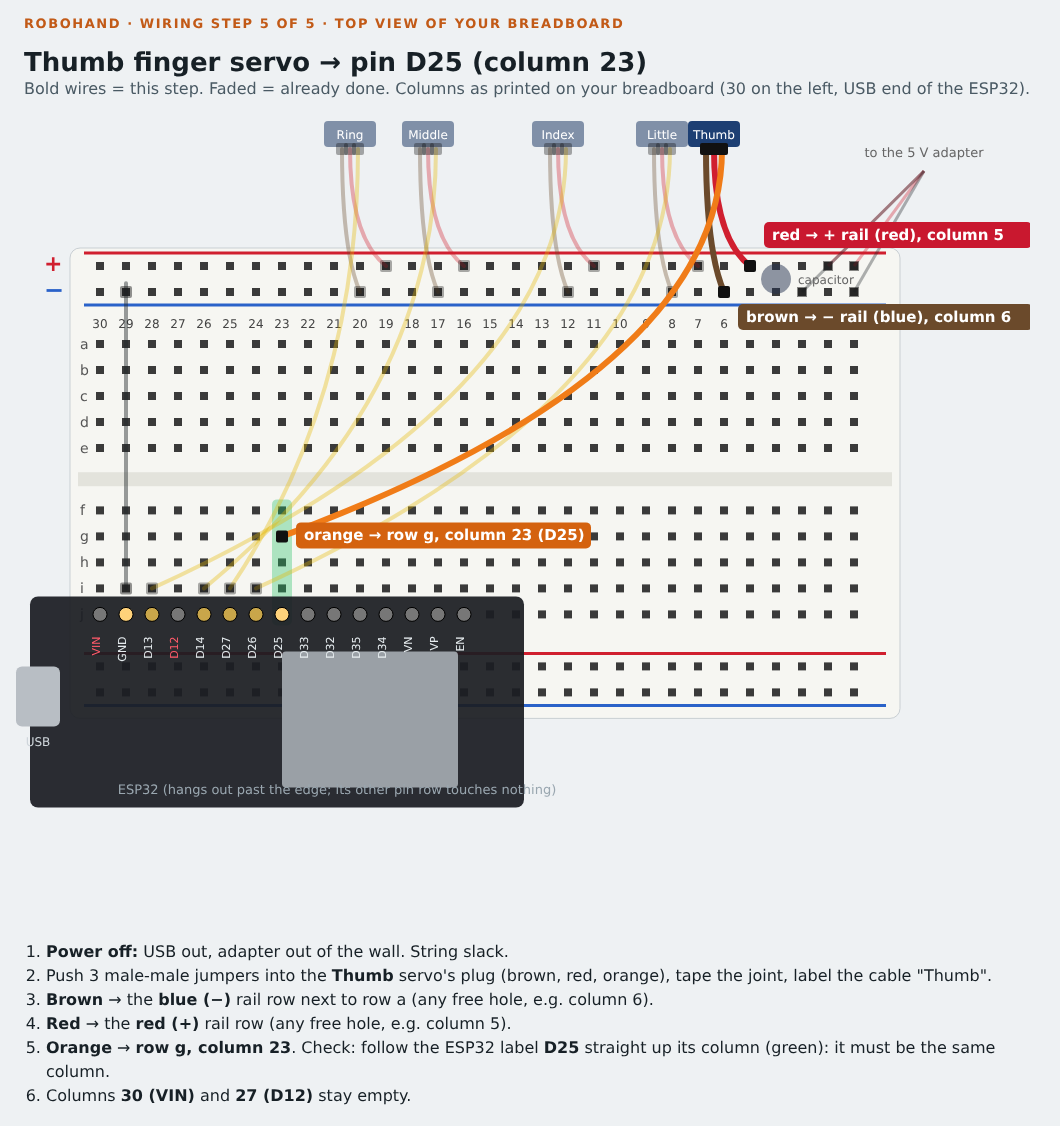
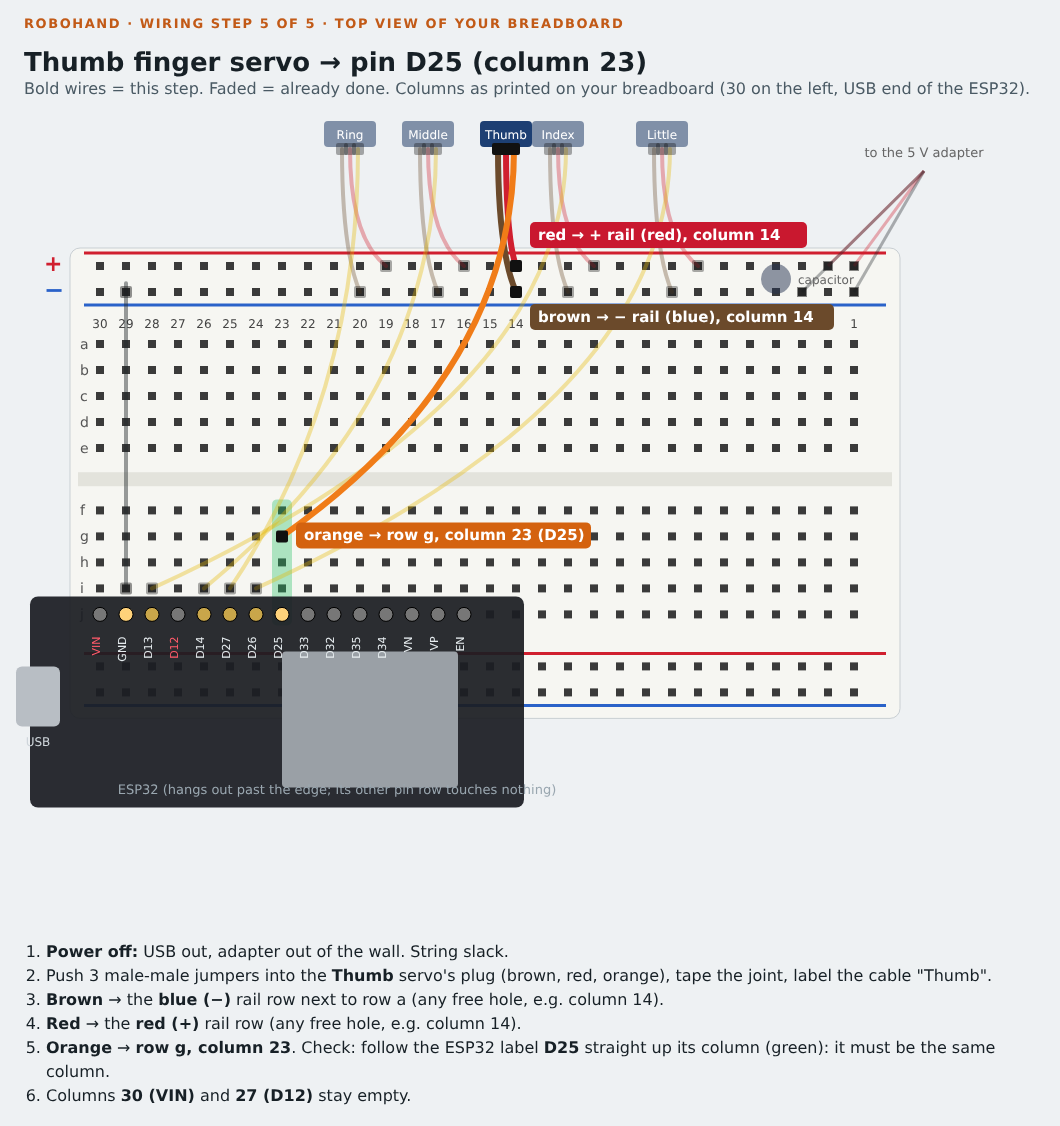
Thumb wiring picture: rail holes moved to column 14 (free on the real board)
Claude-Session: https://claude.ai/code/session_016UHVJgW2w5zeEXY4wxHoiJ

diff --git a/docs/wiring_steps/step_thumb.html b/docs/wiring_steps/step_thumb.html
@@ -565,24 +565,24 @@ ol{font-size:16px;line-height:1.5;margin:8px 24px 18px 24px;padding-left:22px} .
 <path d="M670,51 Q670,300.7 256,490.4" fill="none" stroke="#e5b800" stroke-width="4" stroke-linecap="round"  opacity="0.35"/>
 <rect x="664" y="45" width="12" height="12" rx="2" fill="#111" opacity="0.35"/>
 <rect x="250" y="484.4" width="12" height="12" rx="2" fill="#111" opacity="0.35"/>
-<rect x="688" y="23" width="52" height="26" rx="4" fill="#1d3f73"/>
-<text x="714" y="41" font-size="12" fill="#fff" text-anchor="middle">Thumb</text>
-<path d="M706,51 Q706,152.5 724,194" fill="none" stroke="#6b4a2b" stroke-width="6" stroke-linecap="round"  opacity="1.0"/>
-<rect x="700" y="45" width="12" height="12" rx="2" fill="#111" opacity="1.0"/>
-<rect x="718" y="188" width="12" height="12" rx="2" fill="#111" opacity="1.0"/>
-<path d="M714,51 Q714,139.5 750,168" fill="none" stroke="#d01f2f" stroke-width="6" stroke-linecap="round"  opacity="1.0"/>
-<rect x="708" y="45" width="12" height="12" rx="2" fill="#111" opacity="1.0"/>
-<rect x="744" y="162" width="12" height="12" rx="2" fill="#111" opacity="1.0"/>
-<path d="M722,51 Q722,274.7 282,438.4" fill="none" stroke="#f07c18" stroke-width="6" stroke-linecap="round"  opacity="1.0"/>
-<rect x="716" y="45" width="12" height="12" rx="2" fill="#111" opacity="1.0"/>
+<rect x="480" y="23" width="52" height="26" rx="4" fill="#1d3f73"/>
+<text x="506" y="41" font-size="12" fill="#fff" text-anchor="middle">Thumb</text>
+<path d="M498,51 Q498,152.5 516,194" fill="none" stroke="#6b4a2b" stroke-width="6" stroke-linecap="round"  opacity="1.0"/>
+<rect x="492" y="45" width="12" height="12" rx="2" fill="#111" opacity="1.0"/>
+<rect x="510" y="188" width="12" height="12" rx="2" fill="#111" opacity="1.0"/>
+<path d="M506,51 Q506,139.5 516,168" fill="none" stroke="#d01f2f" stroke-width="6" stroke-linecap="round"  opacity="1.0"/>
+<rect x="500" y="45" width="12" height="12" rx="2" fill="#111" opacity="1.0"/>
+<rect x="510" y="162" width="12" height="12" rx="2" fill="#111" opacity="1.0"/>
+<path d="M514,51 Q514,274.7 282,438.4" fill="none" stroke="#f07c18" stroke-width="6" stroke-linecap="round"  opacity="1.0"/>
+<rect x="508" y="45" width="12" height="12" rx="2" fill="#111" opacity="1.0"/>
 <rect x="276" y="432.4" width="12" height="12" rx="2" fill="#111" opacity="1.0"/>
 <rect x="296" y="424.4" width="295" height="26" rx="5" fill="#d4620f"/><text x="304" y="442.4" font-size="15" font-weight="bold" fill="#fff">orange → row g, column 23 (D25)</text>
-<rect x="738" y="206" width="295" height="26" rx="5" fill="#6b4a2b"/><text x="746" y="224" font-size="15" font-weight="bold" fill="#fff">brown → − rail (blue), column 6</text>
-<rect x="764" y="124" width="268" height="26" rx="5" fill="#c9182f"/><text x="772" y="142" font-size="15" font-weight="bold" fill="#fff">red → + rail (red), column 5</text>
+<rect x="530" y="206" width="304" height="26" rx="5" fill="#6b4a2b"/><text x="538" y="224" font-size="15" font-weight="bold" fill="#fff">brown → − rail (blue), column 14</text>
+<rect x="530" y="124" width="277" height="26" rx="5" fill="#c9182f"/><text x="538" y="142" font-size="15" font-weight="bold" fill="#fff">red → + rail (red), column 14</text>
 </svg><ol>
 <li><b>Power off:</b> USB out, adapter out of the wall. String slack.</li>
 <li>Push 3 male-male jumpers into the <b>Thumb</b> servo's plug (brown, red, orange), tape the joint, label the cable "Thumb".</li>
-<li><b>Brown</b> → the <b>blue (−)</b> rail row next to row a (any free hole, e.g. column 6).</li>
-<li><b>Red</b> → the <b>red (+)</b> rail row (any free hole, e.g. column 5).</li>
+<li><b>Brown</b> → the <b>blue (−)</b> rail row next to row a (any free hole, e.g. column 14).</li>
+<li><b>Red</b> → the <b>red (+)</b> rail row (any free hole, e.g. column 14).</li>
 <li><b>Orange</b> → <b>row g, column 23</b>. Check: follow the ESP32 label <b>D25</b> straight up its column (green): it must be the same column.</li>
 <li>Columns <b>30 (VIN)</b> and <b>27 (D12)</b> stay empty.</li></ol></body></html>

diff --git a/docs/wiring_steps/make_steps.py b/docs/wiring_steps/make_steps.py
@@ -32,7 +32,9 @@ for f, p in FINGER_PIN.items():
     assert FW[f] == int(p[1:]), (f, FW[f], p)
 assert pin_col["VIN"] == 30 and pin_col["GND"] == 29 and pin_col["D13"] == 28 and pin_col["D12"] == 27
 # rail holes used per servo (brown -, red +): own holes, away from the supply (cols 1-4) and the GND jumper
-SERVO_RAIL = {"Index": 12, "Middle": 17, "Ring": 20, "Little": 8, "Thumb": 6}
+SERVO_RAIL = {"Index": 12, "Middle": 17, "Ring": 20, "Little": 8, "Thumb": 14}   # brown (- row)
+RED_COL = {"Thumb": 14}                       # red (+ row); default = brown column - 1
+red_col = lambda f: RED_COL.get(f, SERVO_RAIL[f] - 1)
 ORDER = ["Index", "Middle", "Ring", "Little", "Thumb"]
 used = [SERVO_RAIL[f] for f in ORDER] + [1, 2, 3, 4, 29]
 assert len(set(used)) == len(used), used
@@ -103,7 +105,7 @@ def svg(finger):
         o.append(f'<text x="{srv[0]}" y="{srv[1]-4}" font-size="12" fill="#fff" text-anchor="middle">{f}</text>')
         row = "i" if f in ("Index", "Middle", "Ring", "Little") else "g"   # as actually plugged (photos 2026-11-15)
         wire((srv[0] - 8, srv[1] + 6), hole("N_a", SERVO_RAIL[f]), "#6b4a2b", w, op=op, drop=True)
-        wire((srv[0], srv[1] + 6), hole("P_a", SERVO_RAIL[f] - 1), "#d01f2f", w, op=op, drop=True)
+        wire((srv[0], srv[1] + 6), hole("P_a", red_col(f)), "#d01f2f", w, op=op, drop=True)
         wire((srv[0] + 8, srv[1] + 6), hole(row, pin_col[FINGER_PIN[f]]), "#f07c18" if cur else "#e5b800", w, op=op, drop=True)
     # callouts for the current finger
     c = pin_col[FINGER_PIN[finger]]
@@ -111,7 +113,7 @@ def svg(finger):
         o.append(f'<rect x="{x}" y="{y-18}" width="{9*len(text)+16}" height="26" rx="5" fill="{colr}"/><text x="{x+8}" y="{y}" font-size="15" font-weight="bold" fill="#fff">{text}</text>')
     xg, yg = hole("g", c); tag(xg + 14, yg + 4, f"orange → row g, column {c} ({FINGER_PIN[finger]})", "#d4620f")
     xb, yb = hole("N_a", SERVO_RAIL[finger]); tag(xb + 14, yb + 30, f"brown → − rail (blue), column {SERVO_RAIL[finger]}", "#6b4a2b")
-    xr, yr = hole("P_a", SERVO_RAIL[finger] - 1); tag(xr + 14, yr - 26, f"red → + rail (red), column {SERVO_RAIL[finger]-1}", "#c9182f")
+    xr, yr = hole("P_a", red_col(finger)); tag(xr + 14, yr - 26, f"red → + rail (red), column {red_col(finger)}", "#c9182f")
     o.append("</svg>")
     return "\n".join(o), c
 
@@ -123,7 +125,7 @@ def page(finger):
 <li><b>Power off:</b> USB out, adapter out of the wall. String slack.</li>
 <li>Push 3 male-male jumpers into the <b>{finger}</b> servo's plug (brown, red, orange), tape the joint, label the cable "{finger}".</li>
 <li><b>Brown</b> → the <b>blue (−)</b> rail row next to row a (any free hole, e.g. column {SERVO_RAIL[finger]}).</li>
-<li><b>Red</b> → the <b>red (+)</b> rail row (any free hole, e.g. column {SERVO_RAIL[finger]-1}).</li>
+<li><b>Red</b> → the <b>red (+)</b> rail row (any free hole, e.g. column {red_col(finger)}).</li>
 <li><b>Orange</b> → <b>row g, column {c}</b>. Check: follow the ESP32 label <b>{FINGER_PIN[finger]}</b> straight up its column (green): it must be the same column.</li>
 <li>Columns <b>30 (VIN)</b> and <b>27 (D12)</b> stay empty.</li></ol>"""
     return f"""<!doctype html><html><head><meta charset="utf-8"><title>{finger} wiring</title>
